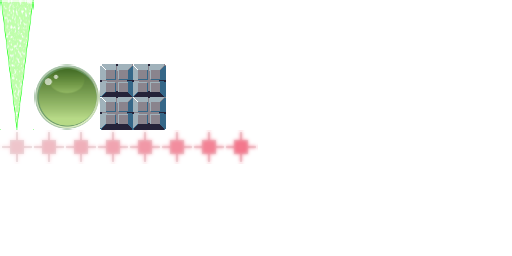
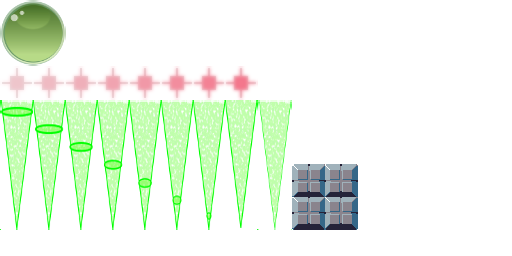
animated attractor force

Changed region(s): [[0.0, 0.0, 0.7188, 0.9062]]

diff --git a/CSC380GameProject/src/edu/oswego/tiltandtumble/worldObjects/graphics/AnimationGraphic.java b/CSC380GameProject/src/edu/oswego/tiltandtumble/worldObjects/graphics/AnimationGraphic.java
@@ -10,7 +10,6 @@ public class AnimationGraphic implements GraphicComponent {
 	private final Animation ani;
 	private final Vector2 position;
 	private final Vector2 origin;
-	private final Vector2 offset;
 	private final Vector2 dimension;
 	private final Vector2 scale;
 	private final boolean looping;
@@ -22,7 +21,6 @@ public class AnimationGraphic implements GraphicComponent {
 	public static class Builder {
 		private final TextureRegion[] frames;
 		private final Vector2 origin = new Vector2(0, 0);
-		private final Vector2 offset = new Vector2(0, 0);
 		private final Vector2 position = new Vector2(0, 0);
 		private final Vector2 dimension = new Vector2();
 		private final Vector2 scale = new Vector2(1, 1);
@@ -75,7 +73,17 @@ public class AnimationGraphic implements GraphicComponent {
 		}
 
 		public Builder center() {
-			offset.set(dimension.x / 2, dimension.y / 2);
+			origin.set(dimension.x / 2, dimension.y / 2);
+			return this;
+		}
+
+		public Builder centerX() {
+			origin.set(dimension.x / 2, 0);
+			return this;
+		}
+
+		public Builder centerY() {
+			origin.set(0, dimension.y / 2);
 			return this;
 		}
 
@@ -87,7 +95,6 @@ public class AnimationGraphic implements GraphicComponent {
 	private AnimationGraphic(Builder builder) {
 		position = builder.position;
 		origin = builder.origin;
-		offset = builder.offset;
 		dimension = builder.dimension;
 		scale = builder.scale;
 
@@ -129,7 +136,7 @@ public class AnimationGraphic implements GraphicComponent {
 		aniTime += delta;
 		TextureRegion region = ani.getKeyFrame(aniTime, looping);
 		batch.draw(region,
-				position.x - offset.x, position.y - offset.y,
+				position.x - origin.x, position.y - origin.y,
 				origin.x, origin.y,
 				dimension.x, dimension.y,
 				scale.x, scale.y,

diff --git a/CSC380GameProject/src/edu/oswego/tiltandtumble/levels/WorldPopulator.java b/CSC380GameProject/src/edu/oswego/tiltandtumble/levels/WorldPopulator.java
@@ -511,13 +511,21 @@ public final class WorldPopulator implements Disposable {
 		// dispose after creating fixture
 		shape.dispose();
 
-		Sprite sprite = atlas.createSprite("attractor");
-		// No idea why i need to do -4 on this to get it to line up correctly
-		sprite.setOrigin((sprite.getWidth() / 2) - 4, 0);
-		GraphicComponent graphic = new SpriteGraphic(sprite);
-		graphic.setPosition(
-				scale.metersToPixels(body.getPosition().x),
-				scale.metersToPixels(body.getPosition().y));
+		TextureRegion sheet = atlas.findRegion("attractor-ani");
+		GraphicComponent graphic = new AnimationGraphic.Builder(sheet, 1, 8, 1)
+				.position(scale.metersToPixels(body.getPosition().x),
+						scale.metersToPixels(body.getPosition().y))
+				.origin(16 - 4, 0)
+				.looping(Animation.LOOP)
+				.build();
+
+//		Sprite sprite = atlas.createSprite("attractor");
+//		// No idea why i need to do -4 on this to get it to line up correctly
+//		sprite.setOrigin((sprite.getWidth() / 2) - 4, 0);
+//		GraphicComponent graphic = new SpriteGraphic(sprite);
+//		graphic.setPosition(
+//				scale.metersToPixels(body.getPosition().x),
+//				scale.metersToPixels(body.getPosition().y));
 
 		return new AttractorForce(body,
 				getFloatProperty(obj, "speed", AttractorForce.DEFAULT_SPEED),
